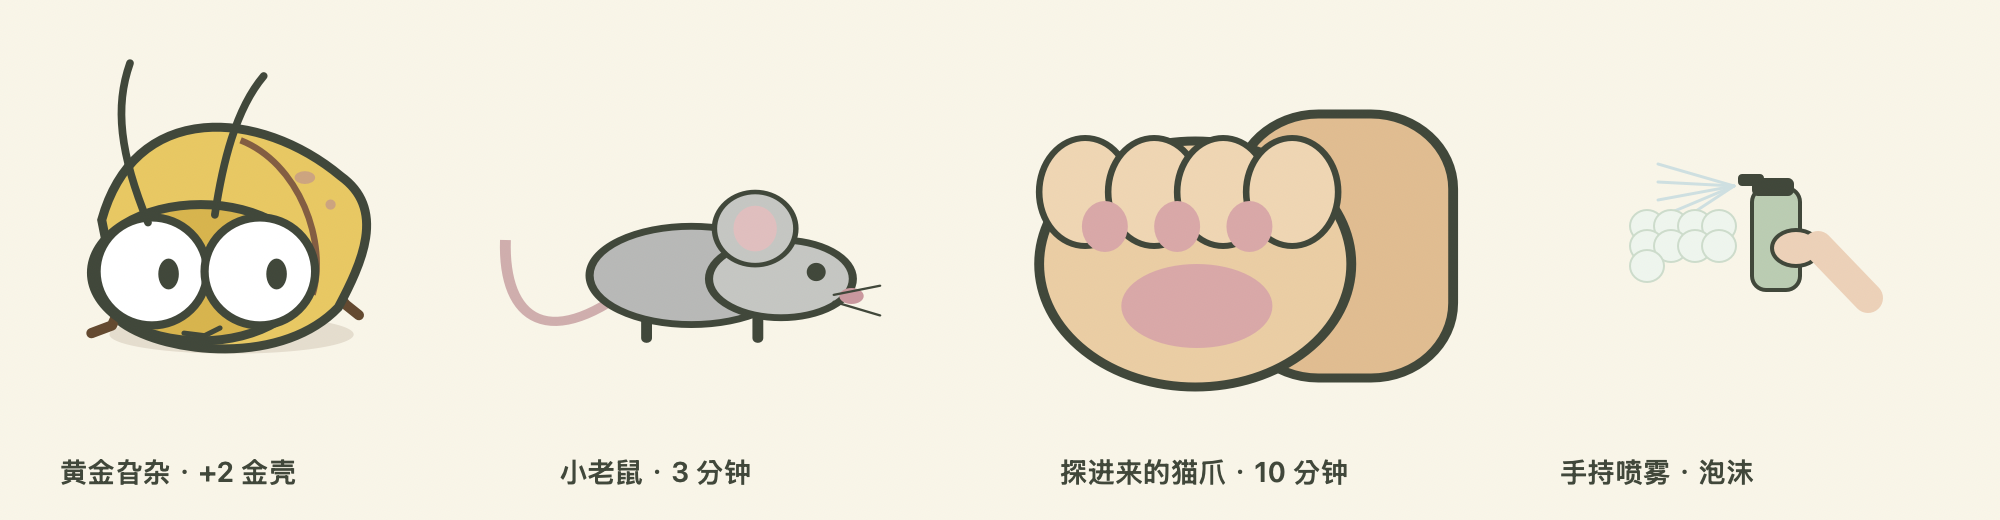
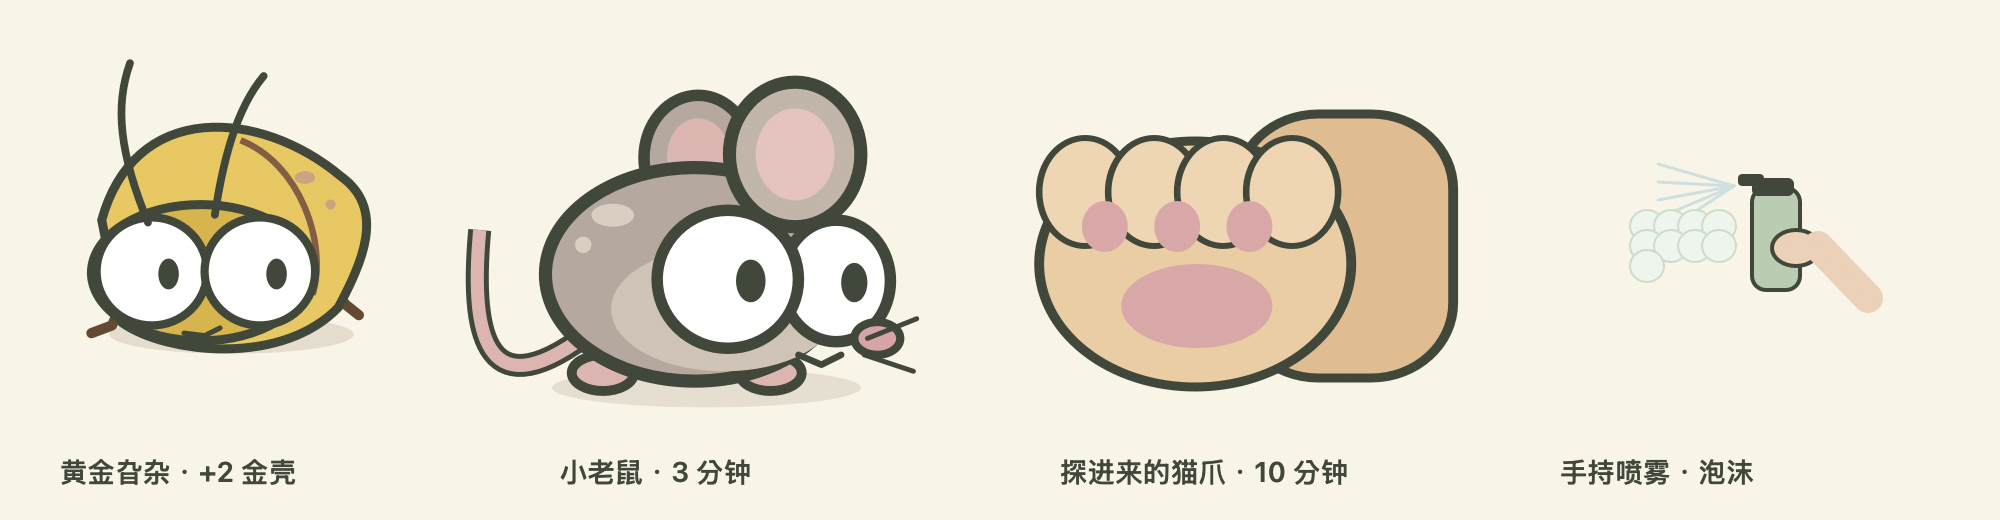
Redesign mouse with rounded cartoon art and larger desktop size

Changed region(s): [[0.217, 0.1231, 0.465, 0.7692]]

diff --git a/Sources/App.swift b/Sources/App.swift
@@ -60,9 +60,9 @@ final class PetView: NSView {
         let size: CGFloat = desktopSize(r.kind)
         if let entry=e.entrances[id],now<entry.until {
             let clip=NSBezierPath(rect:bounds);clip.windingRule = .evenOdd
-            clip.appendRect(NSRect(x:entry.frame.minX-r.x,y:140-entry.frame.maxY+r.y,width:entry.frame.width,height:entry.frame.height));clip.addClip()
+            clip.appendRect(NSRect(x:entry.frame.minX-r.x,y:bounds.height-entry.frame.maxY+r.y,width:entry.frame.width,height:entry.frame.height));clip.addClip()
         }
-        drawBug(in:NSRect(x:(146-size)/2,y:140-size,width:size,height:size),kind:r.kind,phase:now,flying:r.flyingUntil>now,facing:r.vx>=0 ? 1 : -1)
+        drawBug(in:NSRect(x:(bounds.width-size)/2,y:bounds.height-size,width:size,height:size),kind:r.kind,phase:now,flying:r.flyingUntil>now,facing:r.vx>=0 ? 1 : -1)
         if r.tauntUntil>now {
             paintRect(NSRect(x:3,y:7,width:140,height:27),cream,radius:12,stroke:ink)
             label(r.flyingUntil>now ? "打不到～我会飞！" : "你以为没有了？",13,11,size:11,weight:.semibold,width:128)
@@ -368,7 +368,7 @@ final class Paradise: NSObject, NSApplicationDelegate, NSWindowDelegate {
         let frame: CGRect
         if let p=point {frame=(NSScreen.screens.first{$0.frame.contains(p)} ?? screen).frame} else {frame=screen.frame}
         let edge=Int.random(in:0..<4)
-        let start=point ?? Visit.edgePoint(edge,in:frame,fraction:Double.random(in:0.18...0.82))
+        let start=point ?? Visit.edgePoint(edge,in:frame,fraction:Double.random(in:0.18...0.82),kind:state.residents[i].kind)
         state.residents[i].x=start.x;state.residents[i].y=start.y
         // Cross a short stretch of the current desktop, then slip back out of view.
         let target=CGPoint(x:frame.minX+frame.width*Double.random(in:0.25...0.75)-73,y:frame.minY+frame.height*Double.random(in:0.2...0.7)-35)
@@ -397,7 +397,7 @@ final class Paradise: NSObject, NSApplicationDelegate, NSWindowDelegate {
         let ids=Set(state.residents.map{$0.id})
         for id in Array(panels.keys) where !ids.contains(id) {panels[id]?.close();panels.removeValue(forKey:id);visits.removeValue(forKey:id);entrances.removeValue(forKey:id)}
         for r in state.residents where panels[r.id]==nil {
-            let p=PetPanel(contentRect:NSRect(x:r.x,y:r.y,width:146,height:140),styleMask:[.borderless,.nonactivatingPanel],backing:.buffered,defer:false)
+            let p=PetPanel(contentRect:NSRect(x:r.x,y:r.y,width:petCanvas(r.kind).width,height:petCanvas(r.kind).height),styleMask:[.borderless,.nonactivatingPanel],backing:.buffered,defer:false)
             p.ignoresMouseEvents=true;p.isOpaque=false;p.backgroundColor = .clear;p.hasShadow=false;p.level = .floating;p.isReleasedWhenClosed=false;p.hidesOnDeactivate=false
             p.collectionBehavior=[.canJoinAllSpaces,.fullScreenAuxiliary,.ignoresCycle];p.isMovableByWindowBackground=false
             p.contentView=PetView(id:r.id,engine:self);panels[r.id]=p
@@ -431,7 +431,7 @@ final class Paradise: NSObject, NSApplicationDelegate, NSWindowDelegate {
             panels[r.id]?.setFrameOrigin(NSPoint(x:r.x,y:r.y));panels[r.id]?.contentView?.needsDisplay=true
             // Only the visible character captures clicks; the rest of the desktop remains usable.
             let size:Double = desktopSize(r.kind)
-            let hit=NSRect(x:r.x+(146-size)/2,y:r.y+size*0.1,width:size,height:size*0.9)
+            let hit=NSRect(x:r.x+(petCanvas(r.kind).width-size)/2,y:r.y+size*0.1,width:size,height:size*0.9)
             panels[r.id]?.ignoresMouseEvents = !hit.contains(NSEvent.mouseLocation) || (entrances[r.id].map{now<$0.until && $0.frame.contains(NSEvent.mouseLocation)} ?? false)
         }
         if tickCount%30==0 {
@@ -462,7 +462,7 @@ final class Paradise: NSObject, NSApplicationDelegate, NSWindowDelegate {
         guard state.residents.count>before,let r=state.residents.last,let screen=NSScreen.main else{return}
         beginVisit(r.id,now:now)
         let f=screen.frame
-        if kind == .mouse {state.residents[state.residents.count-1].x=f.minX-146;state.residents[state.residents.count-1].y=f.minY+120;visits[r.id]?.target=CGPoint(x:f.maxX,y:f.minY+120);visits[r.id]?.deadline=now+14}
+        if kind == .mouse {state.residents[state.residents.count-1].x=f.minX-petCanvas(kind).width;state.residents[state.residents.count-1].y=f.minY+120;visits[r.id]?.target=CGPoint(x:f.maxX,y:f.minY+120);visits[r.id]?.deadline=now+14}
         else {state.residents[state.residents.count-1].x=f.maxX-90;state.residents[state.residents.count-1].y=f.minY+170;visits[r.id]?.target=CGPoint(x:f.maxX-150,y:f.minY+170);visits[r.id]?.deadline=now+5}
         if state.progression?.seen.contains(kind.rawValue) == false {state.progression?.seen.append(kind.rawValue);tell(kind == .mouse ? "新朋友解锁：路过的小老鼠" : "新朋友解锁：一只探进来的猫爪")}
         syncPanels();save()
@@ -544,12 +544,21 @@ final class Paradise: NSObject, NSApplicationDelegate, NSWindowDelegate {
         let friends=NSImage(size:NSSize(width:1000,height:260));friends.lockFocusFlipped(true)
         paintRect(NSRect(x:0,y:0,width:1000,height:260),cream)
         drawBug(in:NSRect(x:20,y:20,width:180,height:180),kind:.gold)
-        drawFriend(in:NSRect(x:250,y:40,width:190,height:160),cat:false,phase:0)
+        drawFriend(in:NSRect(x:230,y:0,width:230,height:230),cat:false,phase:0)
         drawFriend(in:NSRect(x:490,y:15,width:230,height:210),cat:true,phase:0)
         let shift=AffineTransform(translationByX:790,byY:40);(shift as NSAffineTransform).concat();drawSpray(in:NSRect(x:0,y:0,width:146,height:140));let undo=AffineTransform(translationByX:-790,byY:-40);(undo as NSAffineTransform).concat()
         for (i,text) in ["黄金旮杂 · +2 金壳","小老鼠 · 3 分钟","探进来的猫爪 · 10 分钟","手持喷雾 · 泡沫"].enumerated(){label(text,CGFloat(i)*250+30,227,size:14,weight:.semibold)}
         friends.unlockFocus()
         if let tiff=friends.tiffRepresentation,let bitmap=NSBitmapImageRep(data:tiff){try? bitmap.representation(using:.png,properties:[:])?.write(to:root.appendingPathComponent("Resources/new-friends.png"))}
+        let mouse=NSImage(size:NSSize(width:600,height:300));mouse.lockFocusFlipped(true)
+        paintRect(NSRect(x:0,y:0,width:600,height:300),cream)
+        label("新朋友 · 圆耳鼠",30,22,size:22,weight:.bold)
+        drawFriend(in:NSRect(x:40,y:60,width:240,height:240),cat:false,phase:0)
+        drawBug(in:NSRect(x:350,y:130,width:68,height:68),phase:0)
+        drawFriend(in:NSRect(x:425,y:55,width:170,height:170),cat:false,phase:0)
+        label("同画风 · 桌面尺寸对比",340,245,size:14,weight:.semibold)
+        mouse.unlockFocus()
+        if let tiff=mouse.tiffRepresentation,let bitmap=NSBitmapImageRep(data:tiff){try? bitmap.representation(using:.png,properties:[:])?.write(to:root.appendingPathComponent("Resources/mouse-preview.png"))}
         print("RENDER: dashboard, characters, desktop sizes and new friends exported")
     }
     func integrationTest() {
@@ -627,6 +636,11 @@ final class Paradise: NSObject, NSApplicationDelegate, NSWindowDelegate {
         state.progression!.played=600;encounters(now+2);precondition(state.residents.filter{$0.kind == .catPaw}.count==1)
         encounters(now+3);precondition(state.residents.filter{$0.friend}.count==2)
         precondition(state.progression!.seen.count==2)
+        syncPanels()
+        let mouseResident=state.residents.first{$0.kind == .mouse}!
+        precondition(panels[mouseResident.id]!.contentView!.bounds.size == petCanvas(.mouse))
+        precondition(desktopSize(.mouse) < panels[mouseResident.id]!.frame.width)
+        print("PASS: mouse canvas fits enlarged art")
         print("PASS: mouse/cat playtime discovery and encounter cooldowns")
         print("PASS: growth menu and scan protection preserve manual stain cleanup")
         print("PASS: menu icon/tool selection while minimized, restore, hidden population, blank interval, edge visit, exit, pause preserves hiding")

diff --git a/Sources/Roaming.swift b/Sources/Roaming.swift
@@ -1,7 +1,7 @@
 import Foundation
 
 // Visits are session-only: old save files keep all residents and progression unchanged.
-// Positions refer to the lower-left corner of a transparent 146 × 140 pet panel.
+// Positions refer to the lower-left corner of the kind-specific transparent pet panel.
 struct Visit {
     var hidden = true
     var exiting = false
@@ -9,22 +9,22 @@ struct Visit {
     var target = CGPoint.zero
     var screen = CGRect.zero
 
-    static func edgePoint(_ edge: Int, in screen: CGRect, fraction: Double) -> CGPoint {
+    static func edgePoint(_ edge: Int, in screen: CGRect, fraction: Double, kind:BugKind = .adult) -> CGPoint {
         let x=screen.minX+screen.width*fraction-73
         let y=screen.minY+screen.height*fraction-35
         switch edge {
-        case 0: return CGPoint(x:screen.minX-146,y:y)
+        case 0: return CGPoint(x:screen.minX-petCanvas(kind).width,y:y)
         case 1: return CGPoint(x:screen.maxX,y:y)
-        case 2: return CGPoint(x:x,y:screen.minY-140)
+        case 2: return CGPoint(x:x,y:screen.minY-petCanvas(kind).height)
         default: return CGPoint(x:x,y:screen.maxY)
         }
     }
-    static func nearestExit(from point:CGPoint,in screen:CGRect) -> CGPoint {
+    static func nearestExit(from point:CGPoint,in screen:CGRect, kind:BugKind = .adult) -> CGPoint {
         (0..<4).map { edge -> CGPoint in
             switch edge {
-            case 0:return CGPoint(x:screen.minX-146,y:point.y)
+            case 0:return CGPoint(x:screen.minX-petCanvas(kind).width,y:point.y)
             case 1:return CGPoint(x:screen.maxX,y:point.y)
-            case 2:return CGPoint(x:point.x,y:screen.minY-140)
+            case 2:return CGPoint(x:point.x,y:screen.minY-petCanvas(kind).height)
             default:return CGPoint(x:point.x,y:screen.maxY)
             }
         }.min {hypot($0.x-point.x,$0.y-point.y)<hypot($1.x-point.x,$1.y-point.y)}!
@@ -33,7 +33,7 @@ struct Visit {
         guard !hidden else{return}
         if !exiting && now>=deadline {
             exiting=true
-            target=Self.nearestExit(from:CGPoint(x:r.x,y:r.y),in:screen)
+            target=Self.nearestExit(from:CGPoint(x:r.x,y:r.y),in:screen,kind:r.kind)
         }
         let dx=target.x-r.x,dy=target.y-r.y,distance=hypot(dx,dy)
         let step=speed*dt
@@ -45,7 +45,7 @@ struct Visit {
     }
 }
 func desktopSize(_ kind:BugKind) -> CGFloat {
-    switch kind {case .mouse:return 104;case .catPaw:return 140;case .baby:return 45;case .egg:return 52;default:return 68}
+    switch kind {case .mouse:return 170;case .catPaw:return 140;case .baby:return 45;case .egg:return 52;default:return 68}
 }
 func runRoamingTests() {
     let f=CGRect(x:-1440,y:40,width:1440,height:860)
@@ -65,3 +65,5 @@ func runRoamingTests() {
     precondition(desktopSize(.adult)==68 && desktopSize(.baby)==45)
     print("PASS: four offscreen entrances, negative display coordinates, walking, exit, hidden stability, smaller sizes")
 }
+
+func petCanvas(_ kind:BugKind) -> CGSize { kind == .mouse ? CGSize(width:182,height:182) : CGSize(width:146,height:140) }

diff --git a/Sources/Art.swift b/Sources/Art.swift
@@ -118,15 +118,26 @@ func drawFriend(in box:NSRect,cat:Bool,phase:Double,facing:Double=1){
         oval(NSRect(x:43,y:78,width:46,height:28),color(0xD99396))
         for n in 0..<3 {oval(NSRect(x:31+CGFloat(n)*22,y:57,width:14,height:17),color(0xD99396))}
     } else {
-        let wig=sin(phase*12)*4
-        let tail=NSBezierPath();tail.move(to:NSPoint(x:89,y:88));tail.curve(to:NSPoint(x:138,y:70+wig),controlPoint1:NSPoint(x:122,y:120),controlPoint2:NSPoint(x:139,y:105));color(0xCB9B9C).setStroke();tail.lineWidth=4;tail.stroke()
-        for x in [45.0,86.0] {line([NSPoint(x:x,y:99),NSPoint(x:x+wig,y:113)],ink,4)}
-        oval(NSRect(x:32,y:64,width:75,height:43),color(0xA9AAA8),stroke:ink,width:3)
-        oval(NSRect(x:10,y:70,width:53,height:34),color(0xB8BAB5),stroke:ink,width:3)
-        oval(NSRect(x:31,y:49,width:30,height:32),color(0xB8BAB5),stroke:ink,width:2)
-        oval(NSRect(x:38,y:55,width:16,height:20),color(0xDFAEB0))
-        oval(NSRect(x:20,y:80,width:7,height:8),ink);oval(NSRect(x:6,y:91,width:9,height:7),color(0xC7818C))
-        line([NSPoint(x:17,y:94),NSPoint(x:0,y:90)],ink,1);line([NSPoint(x:17,y:97),NSPoint(x:0,y:103)],ink,1)
+        let wig=sin(phase*12)*3
+        let tail=NSBezierPath();tail.move(to:NSPoint(x:99,y:100));tail.curve(to:NSPoint(x:134,y:70+wig),controlPoint1:NSPoint(x:132,y:126),controlPoint2:NSPoint(x:137,y:103));ink.setStroke();tail.lineWidth=7;tail.stroke();color(0xDCA3A0).setStroke();tail.lineWidth=4;tail.stroke()
+        oval(NSRect(x:18,y:112,width:94,height:12),color(0x765845,0.16))
+        for x in [36.0,87.0] {oval(NSRect(x:x+wig,y:108,width:19,height:11),color(0xDCA3A0),stroke:ink,width:3)}
+        oval(NSRect(x:51,y:29,width:33,height:38),color(0xA9978C),stroke:ink,width:3.5)
+        oval(NSRect(x:58,y:36,width:19,height:23),color(0xDCA3A0))
+        oval(NSRect(x:23,y:51,width:91,height:65),color(0xA9978C),stroke:ink,width:4)
+        oval(NSRect(x:25,y:75,width:69,height:38),color(0xC6B7A6))
+        oval(NSRect(x:18,y:25,width:40,height:44),color(0xB7A698),stroke:ink,width:4)
+        oval(NSRect(x:26,y:33,width:24,height:28),color(0xE6B4AE))
+        oval(NSRect(x:87,y:62,width:13,height:7),color(0xD3C3B4))
+        oval(NSRect(x:100,y:72,width:5,height:5),color(0xD3C3B4))
+        oval(NSRect(x:9,y:67,width:33,height:37),.white,stroke:ink,width:3.5)
+        oval(NSRect(x:37,y:64,width:43,height:42),.white,stroke:ink,width:3.5)
+        oval(NSRect(x:16,y:80,width:8,height:12),ink)
+        oval(NSRect(x:47,y:79,width:9,height:13),ink)
+        oval(NSRect(x:6,y:98,width:14,height:10),color(0xD68F96),stroke:ink,width:2.5)
+        line([NSPoint(x:24,y:108),NSPoint(x:30,y:111),NSPoint(x:37,y:108)],ink,2)
+        line([NSPoint(x:16,y:103),NSPoint(x:1,y:97)],ink,1.5)
+        line([NSPoint(x:17,y:108),NSPoint(x:2,y:113)],ink,1.5)
     }
     NSGraphicsContext.restoreGraphicsState()
 }

diff --git a/Windows/Game.cs b/Windows/Game.cs
@@ -9,7 +9,8 @@ public static class Rules {
     public static readonly int[] Cost=[0,2,4,6,5];
     public static readonly int[] Unlock=[0,5,12,20,28];
     public static readonly string[] Details=["噗叽！会留奶油污渍","啪！但它可能会飞","开文件夹时批量躺平","活的、死的、卵，都能吸","最后一步：把污渍擦掉"];
-    public static float Size(Kind k)=>k==Kind.Mouse?100:k==Kind.CatPaw?110:k==Kind.Baby?45:k==Kind.Egg?52:68;
+    public static int Canvas(Kind k)=>k==Kind.Mouse?182:110;
+    public static float Size(Kind k)=>k==Kind.Mouse?170:k==Kind.CatPaw?110:k==Kind.Baby?45:k==Kind.Egg?52:68;
 }
 public class Resident {
     public Guid Id {get;set;}=Guid.NewGuid();
@@ -74,8 +75,8 @@ public class Game {
     }
     public void BeginVisit(Resident r,double now,PointF? origin=null){
         var f=origin.HasValue?Screens.FirstOrDefault(s=>s.Contains(Point.Round(origin.Value)),Screens[0]):Screens[rng.Next(Screens.Length)];r.Screen=f;
-        int edge=rng.Next(4);r.X=edge==0?f.Left-110:edge==1?f.Right:f.Left+(float)Range(.2,.8)*f.Width;
-        r.Y=edge==2?f.Top-110:edge==3?f.Bottom:f.Top+(float)Range(.2,.8)*f.Height;
+        int edge=rng.Next(4);r.X=edge==0?f.Left-Rules.Canvas(r.Kind):edge==1?f.Right:f.Left+(float)Range(.2,.8)*f.Width;
+        r.Y=edge==2?f.Top-Rules.Canvas(r.Kind):edge==3?f.Bottom:f.Top+(float)Range(.2,.8)*f.Height;
         if(origin.HasValue){r.X=origin.Value.X;r.Y=origin.Value.Y;}
         r.TargetX=f.Left+(float)Range(.25,.75)*f.Width;r.TargetY=f.Top+(float)Range(.2,.7)*f.Height;
         r.Hidden=false;r.Exiting=false;r.ExitAt=now+Range(9,16);
@@ -87,7 +88,7 @@ public class Game {
         foreach(var r in State.Residents.Where(r=>r.Live)){
             if(r.Kind==Kind.Baby&&now-r.Born>120&&!State.Quiet)r.Kind=Kind.Adult;
             if(r.Hidden)continue;
-            if(!r.Exiting&&now>=r.ExitAt){r.Exiting=true;var f=r.Screen;PointF[] exits=[new(f.Left-110,r.Y),new(f.Right,r.Y),new(r.X,f.Top-110),new(r.X,f.Bottom)];var p=exits.MinBy(p=>MathF.Abs(p.X-r.X)+MathF.Abs(p.Y-r.Y));r.TargetX=p.X;r.TargetY=p.Y;}
+            if(!r.Exiting&&now>=r.ExitAt){r.Exiting=true;var f=r.Screen;PointF[] exits=[new(f.Left-Rules.Canvas(r.Kind),r.Y),new(f.Right,r.Y),new(r.X,f.Top-Rules.Canvas(r.Kind)),new(r.X,f.Bottom)];var p=exits.MinBy(p=>MathF.Abs(p.X-r.X)+MathF.Abs(p.Y-r.Y));r.TargetX=p.X;r.TargetY=p.Y;}
             float dx=r.TargetX-r.X,dy=r.TargetY-r.Y,d=MathF.Sqrt(dx*dx+dy*dy);r.Direction=dx>=0?1:-1;
             float step=(float)(dt*(r.Kind==Kind.Mouse?145:r.Kind==Kind.CatPaw?18:r.FlyingUntil>now?190:58)*(State.Quiet ? 0.4 : 1));
             if(d<=Math.Max(1,step)){r.X=r.TargetX;r.Y=r.TargetY;if(r.Exiting){r.Hidden=true;NextAppearance=now+Range(22,45);}}
@@ -108,7 +109,7 @@ public class Game {
         if(State.Progression.Played>=600&&now>=nextCat){nextCat=now+Range(240,420);if(!State.Residents.Any(r=>r.Kind==Kind.CatPaw))SpawnFriend(Kind.CatPaw,now);}
     }
     void SpawnFriend(Kind kind,double now){var r=Spawn(kind,now);if(r==null)return;BeginVisit(r,now);var f=r.Screen;
-        if(kind==Kind.Mouse){r.X=f.Left-110;r.Y=f.Bottom-200;r.TargetX=f.Right;r.TargetY=r.Y;r.ExitAt=now+14;}
+        if(kind==Kind.Mouse){r.X=f.Left-Rules.Canvas(r.Kind);r.Y=f.Bottom-200;r.TargetX=f.Right;r.TargetY=r.Y;r.ExitAt=now+14;}
         else{r.X=f.Right-40;r.Y=f.Top+200;r.TargetX=f.Right-100;r.TargetY=r.Y;r.ExitAt=now+5;}
         if(!State.Progression.Seen.Contains(kind.ToString())){State.Progression.Seen.Add(kind.ToString());Message=kind==Kind.Mouse?"新朋友解锁：路过的小老鼠":"新朋友解锁：一只探进来的猫爪";}
     }

diff --git a/Windows/Desktop.cs b/Windows/Desktop.cs
@@ -6,20 +6,20 @@ sealed class PetWindow:Form {
     public bool LastRenderOK;
     public Tool? EffectTool;public double EffectBorn;
     readonly Action<Guid> use;
-    public PetWindow(Resident r,Action<Guid> use){Resident=r;this.use=use;FormBorderStyle=FormBorderStyle.None;ShowInTaskbar=false;TopMost=true;AutoScaleMode=AutoScaleMode.None;ClientSize=new(110,110);StartPosition=FormStartPosition.Manual;}
+    public PetWindow(Resident r,Action<Guid> use){Resident=r;this.use=use;FormBorderStyle=FormBorderStyle.None;ShowInTaskbar=false;TopMost=true;AutoScaleMode=AutoScaleMode.None;ClientSize=new(Rules.Canvas(r.Kind),Rules.Canvas(r.Kind));StartPosition=FormStartPosition.Manual;}
     protected override bool ShowWithoutActivation=>true;
     protected override CreateParams CreateParams{get{var p=base.CreateParams;p.ExStyle|=0x80000|0x80|0x08000000;if(EffectTool.HasValue)p.ExStyle|=0x20;return p;}}
     protected override void OnMouseDown(MouseEventArgs e){if(e.Button==MouseButtons.Left)use(Resident.Id);}
     public void Render(double now){
-        using var bmp=new Bitmap(110,110,PixelFormat.Format32bppPArgb);using(var g=Graphics.FromImage(bmp)){
+        using var bmp=new Bitmap(ClientSize.Width,ClientSize.Height,PixelFormat.Format32bppPArgb);using(var g=Graphics.FromImage(bmp)){
             if(Resident.EntryFrame is Rectangle frame&&now<Resident.EntryUntil)g.SetClip(new RectangleF(frame.X-Resident.X,frame.Y-Resident.Y,frame.Width,frame.Height),System.Drawing.Drawing2D.CombineMode.Exclude);
             if(EffectTool.HasValue)Art.Effect(g,EffectTool.Value,now-EffectBorn);
-            else {float size=Rules.Size(Resident.Kind);Art.Bug(g,new((110-size)/2,110-size,size,size),Resident.Kind,now,Resident.FlyingUntil>now,Resident.Direction);
+            else {float size=Rules.Size(Resident.Kind);Art.Bug(g,new((ClientSize.Width-size)/2,ClientSize.Height-size,size,size),Resident.Kind,now,Resident.FlyingUntil>now,Resident.Direction);
             if(Resident.TauntUntil>now){Art.Round(g,new(0,1,110,24),Art.Cream,9);Art.Text(g,Resident.FlyingUntil>now?"打不到～我会飞！":"你以为没有了？",7,4,11,Art.Ink,true,103);}
         }
         }
         var screenDC=GetDC(IntPtr.Zero);var mem=CreateCompatibleDC(screenDC);var bitmap=bmp.GetHbitmap(Color.FromArgb(0));var old=SelectObject(mem,bitmap);
-        try{var pos=new NativePoint((int)Resident.X,(int)Resident.Y);var size=new NativeSize(110,110);var source=new NativePoint(0,0);var blend=new Blend{Alpha=255,Format=1};LastRenderOK=UpdateLayeredWindow(Handle,screenDC,ref pos,ref size,mem,ref source,0,ref blend,2);}
+        try{var pos=new NativePoint((int)Resident.X,(int)Resident.Y);var size=new NativeSize(ClientSize.Width,ClientSize.Height);var source=new NativePoint(0,0);var blend=new Blend{Alpha=255,Format=1};LastRenderOK=UpdateLayeredWindow(Handle,screenDC,ref pos,ref size,mem,ref source,0,ref blend,2);}
         finally{SelectObject(mem,old);DeleteObject(bitmap);DeleteDC(mem);ReleaseDC(IntPtr.Zero,screenDC);}
     }
     [StructLayout(LayoutKind.Sequential)]struct NativePoint{public int X,Y;public NativePoint(int x,int y){X=x;Y=y;}}

diff --git a/Windows/Art.cs b/Windows/Art.cs
@@ -30,7 +30,21 @@ static class Art {
         var save=g.Save();g.TranslateTransform(box.X,box.Y);g.ScaleTransform(box.Width/140,box.Height/140);g.SmoothingMode=SmoothingMode.AntiAlias;
         if(!cat&&facing>0){g.TranslateTransform(140,0);g.ScaleTransform(-1,1);}
         if(cat){Round(g,new(78,28,70,88),Color.FromArgb(224,173,120),25);Oval(g,Color.FromArgb(235,193,141),18,37,95,82,Ink,3);for(int n=0;n<4;n++)Oval(g,Color.FromArgb(240,203,159),18+n*21,36,28,36,Ink,2);Oval(g,Color.FromArgb(217,147,150),43,78,46,28);for(int n=0;n<3;n++)Oval(g,Color.FromArgb(217,147,150),31+n*22,57,14,17);}
-        else{float wig=(float)Math.Sin(phase*12)*4;using var tail=new GraphicsPath();tail.AddBezier(89,88,122,120,139,105,138,70+wig);using var tp=new Pen(Color.FromArgb(203,155,156),4);g.DrawPath(tp,tail);foreach(float x in new[]{45f,86f})Line(g,Ink,4,new(x,99),new(x+wig,113));Oval(g,Color.FromArgb(169,170,168),32,64,75,43,Ink,3);Oval(g,Color.FromArgb(184,186,181),10,70,53,34,Ink,3);Oval(g,Color.FromArgb(184,186,181),31,49,30,32,Ink);Oval(g,Color.FromArgb(223,174,176),38,55,16,20);Oval(g,Ink,20,80,7,8);Oval(g,Color.FromArgb(199,129,140),6,91,9,7);Line(g,Ink,1,new(17,94),new(0,90));Line(g,Ink,1,new(17,97),new(0,103));}
+        else{
+            float wig=(float)Math.Sin(phase*12)*3;
+            using var tail=new GraphicsPath();tail.AddBezier(99,100,132,126,137,103,134,70+wig);using var outline=new Pen(Ink,7);using var pink=new Pen(Color.FromArgb(220,163,160),4);g.DrawPath(outline,tail);g.DrawPath(pink,tail);
+            Oval(g,Color.FromArgb(40,118,88,69),18,112,94,12);
+            foreach(float x in new[]{36f,87f})Oval(g,Color.FromArgb(220,163,160),x+wig,108,19,11,Ink,3);
+            var fur=Color.FromArgb(169,151,140);var blush=Color.FromArgb(220,163,160);
+            Oval(g,fur,51,29,33,38,Ink,3.5f);Oval(g,blush,58,36,19,23);
+            Oval(g,fur,23,51,91,65,Ink,4);Oval(g,Color.FromArgb(198,183,166),25,75,69,38);
+            Oval(g,Color.FromArgb(183,166,152),18,25,40,44,Ink,4);Oval(g,Color.FromArgb(230,180,174),26,33,24,28);
+            Oval(g,Color.FromArgb(211,195,180),87,62,13,7);Oval(g,Color.FromArgb(211,195,180),100,72,5,5);
+            Oval(g,Color.White,9,67,33,37,Ink,3.5f);Oval(g,Color.White,37,64,43,42,Ink,3.5f);
+            Oval(g,Ink,16,80,8,12);Oval(g,Ink,47,79,9,13);
+            Oval(g,Color.FromArgb(214,143,150),6,98,14,10,Ink,2.5f);
+            Line(g,Ink,2,new(24,108),new(30,111),new(37,108));Line(g,Ink,1.5f,new(16,103),new(1,97));Line(g,Ink,1.5f,new(17,108),new(2,113));
+        }
         g.Restore(save);
     }
     public static void Effect(Graphics g,Tool tool,double elapsed){

diff --git a/Tests/VALIDATION.md b/Tests/VALIDATION.md
@@ -35,3 +35,7 @@
 - Mac 原生集成测试覆盖朋友解锁与冷却；角色预览检查黄金配色、老鼠朝向、局部猫爪、手持喷瓶和泡沫。
 - 新档捏取免费，其他工具使用金壳；扫描跟随喷雾解锁。旧存档迁移前保留备份，余额与已购工具同住客状态原子保存。
 - Mac ARM 原生测试通过；Intel 为交叉构建。Windows 模型测试和原生项目编译通过，Windows 动物动画及工具特效仍需真机测试。两个包仍无正式发行签名。
+
+## 1.4.1 圆耳鼠形象
+
+两端老鼠采用暖灰色圆身、粉耳、大白眼与粗轮廓；桌面画布尺寸 170，透明窗口扩至 182，出入屏幕位置随窗口尺寸计算。Mac 原生集成测试确认实际内容视图容纳放大角色，现有玩法测试通过；已用程序自身绘图导出并检查角色预览。Mac 通用包及 Windows x64 包构建成功，Windows 模型测试通过，Windows 原生显示仍待真机验证。
